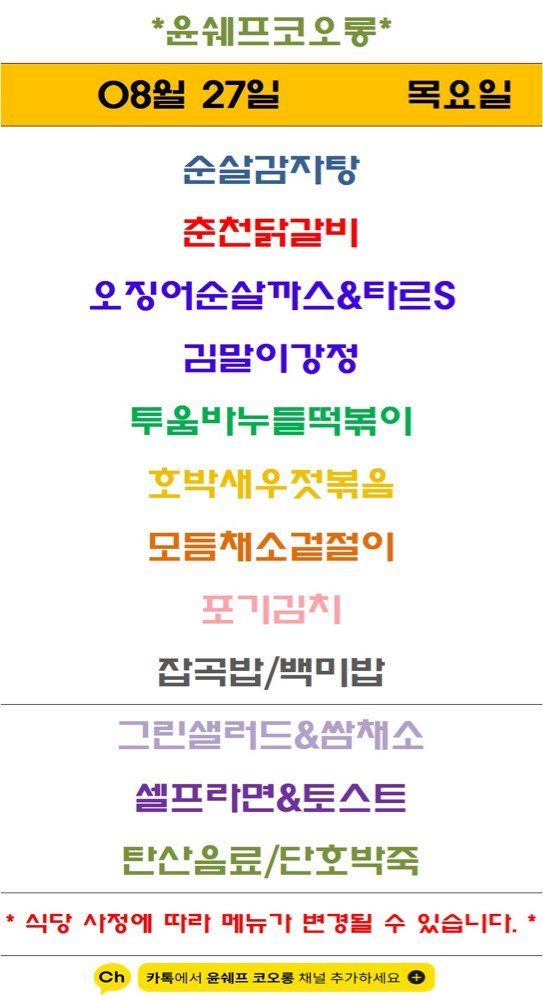
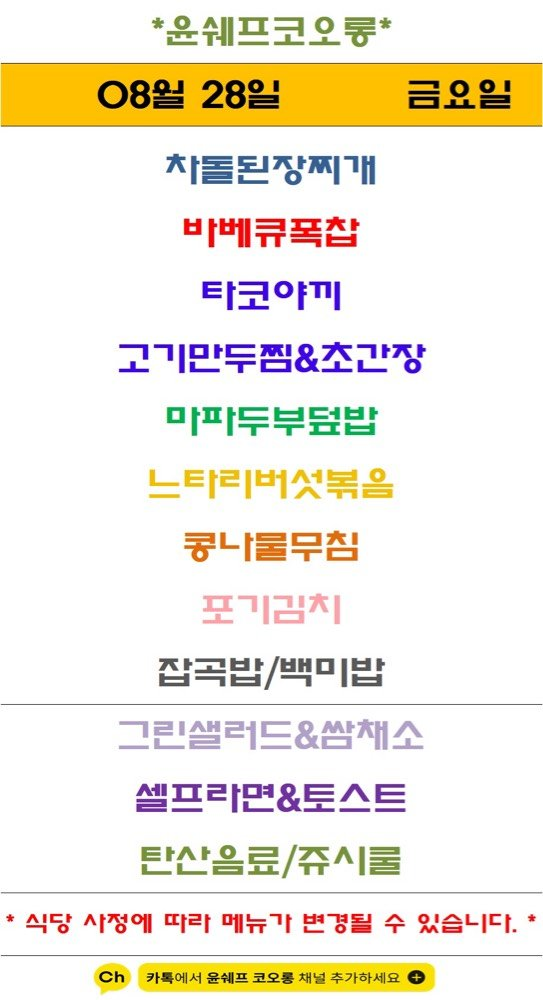
Update menu board assets

diff --git a/guro-menu/index.html b/guro-menu/index.html
@@ -32,7 +32,7 @@
   </header>
   <section class="meta">
     <div><small>기준 날짜</small><strong>2026년 8월 28일 금요일</strong></div>
-    <div><small>최종 갱신</small><strong>2026-08-28 09:03:43</strong></div>
+    <div><small>최종 갱신</small><strong>2026-08-28 09:13:59</strong></div>
     <div><small>등록 식당</small><strong>5개</strong></div>
   </section>
   <div class="notice">공개 카카오 채널의 메뉴 이미지를 자동 수집하고 OCR로 정리합니다. 텍스트에 오타가 있을 수 있으니 식단 이미지를 함께 확인해 주세요.</div>
@@ -103,8 +103,8 @@
           <a class="channel" href="https://pf.kakao.com/_Xxhxkhs" target="_blank" rel="noopener">원본 채널</a>
         </div>
         <img class="menu-image" src="./images/yoon-chef-kolon.png" alt="윤쉐프 코오롱 식단 이미지" loading="lazy">
-        <p class="message">최신 공개 식단 이미지의 텍스트입니다. 날짜는 원본 이미지를 확인해 주세요.</p>
-        <ul><li>순살감자탕</li><li>준전닭갈비</li><li>오징어순살까쓰&amp;타르6</li><li>러말이강정</li><li>투옴비누들떡볶이</li><li>모듬재소겉절이</li><li>잡곡밥/벽미밥</li><li>그린샐러드&amp;쌈채소</li><li>셀프라면&amp;토스트</li><li>탄산음료/단호박죽</li></ul>
+        
+        <ul><li>자돌된장찌개</li><li>바베큐폭잡</li><li>타코야끼</li><li>고기만두찜&amp;조관장</li><li>잡곡밥/백미밥</li><li>그린설러드&amp;쌈채소</li><li>셀프라면&amp;토스트</li><li>탄산음료/쥬시쿨</li></ul>
       </article>
   </section>
   <section class="seo" aria-label="검색 정보">한신IT타워 구내식당 자연푸드 구내식당 더이츠푸드 벽산더이룸 윤쉐프 코오롱 한신IT타워 벽산디지털밸리7차 대륭포스트타워1차 벽산디지털밸리1차 코오롱싸이언스밸리1차 서울 구로구 디지털로 272 한신IT타워 지하1층 서울 구로구 디지털로33길 50 벽산디지털밸리7차 지하1층 서울 구로구 디지털로 288 대륭포스트타워1차 지하1층 서울 구로구 디지털로27길 24 벽산디지털밸리1차 지하1층 서울 구로구 디지털로34길 43 코오롱싸이언스밸리1차 지하1층</section>

diff --git a/menu-today/index.html b/menu-today/index.html
@@ -209,7 +209,7 @@
 
     <section class="meta-bar">
       <div class="meta-card"><div class="meta-label">기준 날짜</div><div class="meta-value">2026년 8월 28일 금요일</div></div>
-      <div class="meta-card"><div class="meta-label">최종 가져온 시간</div><div class="meta-value">2026-08-28 09:03:26</div></div>
+      <div class="meta-card"><div class="meta-label">최종 가져온 시간</div><div class="meta-value">2026-08-28 09:13:46</div></div>
       <div class="meta-card"><div class="meta-label">확인 완료</div><div class="meta-value">9개 식당</div></div>
       <div class="meta-card"><div class="meta-label">준비중</div><div class="meta-value">3개 채널</div></div>
     </section>
@@ -235,7 +235,7 @@
             <div class="sub">가산 어반워크</div>
           </div>
         </div>
-        <div class="menu-inline-image"><img src="./images/dasibom.png" alt="다시 봄 식단 이미지"></div><ul><li>&#x27; 순대철판볶음 !</li><li>수제치즈김치전</li><li>오이송송무침</li><li>싱싱샐러드</li><li>&#x27; 얼갈이된장국</li><li>다리살치킨</li><li>파보으</li><li>순대</li><li>수제지즈김치전</li></ul>
+        <div class="menu-inline-image"><img src="./images/dasibom.png" alt="다시 봄 식단 이미지"></div><ul><li>수살닭구이 be</li><li>고구마치즈돈까스 a</li><li>감자채볶음 Fs</li><li>아삭고주쌈장무짐 을</li><li>싱싱샐러드</li><li>추김치 e</li><li>어묵국 Fe</li><li>구이</li></ul>
       </article>
 
       <article class="restaurant-card">
